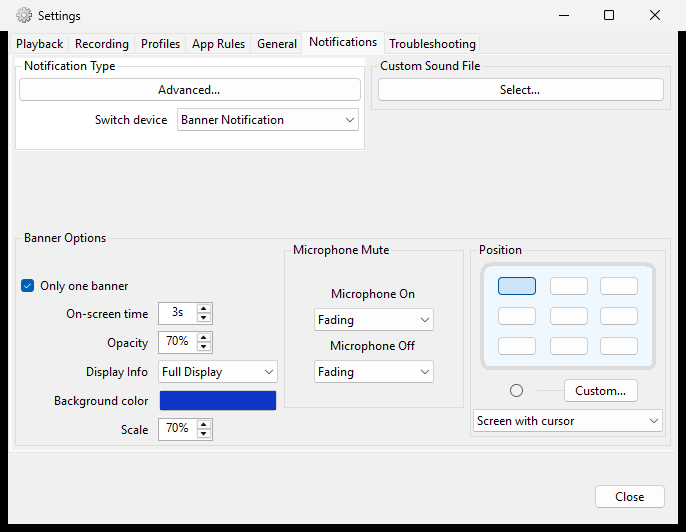
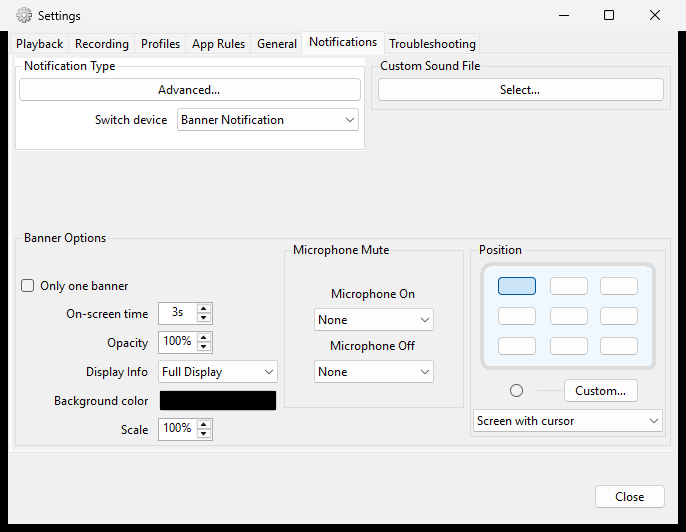
docs(documentation): capture sub-dialogs and refresh screenshots
Add a -Click option to tools/Capture-DocumentationScreenshot.ps1 that invokes
a button on the selected tab and captures the dialog it opens, so sub-dialogs
such as the App Rules "Add Rule" dialog can be produced by automation instead
of a hand-cropped grab. The click posts BM_CLICK to the button handle because
the UI Automation Invoke pattern blocks until a modal dialog closes.

Refresh the affected screenshots: AppRules Add.png is now the clean single
dialog, and Notifications.png shows the documented defaults.

diff --git a/.opencode/skills/documentation-sync/SKILL.md b/.opencode/skills/documentation-sync/SKILL.md
@@ -36,7 +36,7 @@ symlink; change the real file in `img/Documentation/`.
 | `website/src/configuration/recording.md` | `Recording.png` | Recording |
 | `website/src/configuration/notifications.md` | `Notifications.png` | Notifications |
 | `website/src/usage/profiles.md` | `Profile.png`, `Profile Add.png` | Profiles (+ profile editor) |
-| `website/src/usage/app-rules.md` | `AppRules.png`, `AppRules Add.png` | App Sound Lock (+ rule dialog) |
+| `website/src/usage/app-rules.md` | `AppRules.png`, `AppRules Add.png` | App Rules (+ rule dialog, `-Click addAppSoundRuleButton`) |
 | `website/src/advanced/troubleshooting.md` | `Troubleshoot.png` | Troubleshooting |
 | `website/src/faq/**` | `faq/*.png`, `faq/*.gif` | — |
 
@@ -53,6 +53,7 @@ surface, selects the tab, and captures **only the Settings window bounds**:
 # From the repository root. Requires PowerShell 7+.
 pwsh .\tools\Capture-DocumentationScreenshot.ps1 -Name Notifications -Tab Notifications
 pwsh .\tools\Capture-DocumentationScreenshot.ps1 -Name Playback -Tab Playback
+pwsh .\tools\Capture-DocumentationScreenshot.ps1 -Name "AppRules Add" -Tab "App Rules" -Click addAppSoundRuleButton
 pwsh .\tools\Capture-DocumentationScreenshot.ps1 -Name faq/quick-menu-popup
 ```
 
@@ -64,7 +65,8 @@ What the script does, and why:
    with `--disable-updater`.
 3. Opens the Settings window with `SoundSwitch.CLI.exe settings` — the supported
    automation surface — instead of simulating tray clicks.
-4. Selects the tab by name with UI Automation (`System.Windows.Automation`).
+4. Selects the tab by name with UI Automation (`System.Windows.Automation`) and,
+   with `-Click`, invokes a button to open a sub-dialog.
 5. Captures the window with `PrintWindow(PW_RENDERFULLCONTENT)` clipped to
    `GetWindowRect`, so the PNG is cropped to the window (title bar included, no
    desktop background) and matches the existing screenshots.
@@ -80,9 +82,13 @@ Notes and gotchas:
 - The committed screenshots use the **English** UI. If SoundSwitch is set to another
   language, switch it back (General tab) before capturing, and pass tab names in
   the language currently displayed (`-Tab` matches the localized label).
-- For dialogs that are not a settings tab (add-profile, add-rule, colour picker),
-  open them once by hand, then run the script with `-AllowExistingInstance` and no
-  `-Tab` while the dialog is visible, or capture the dialog window directly.
+- Sub-dialogs (add-profile, add-rule, …) are captured with `-Click`: after the tab
+  is selected the script clicks the named button and captures the dialog it opens,
+  e.g. `-Tab "App Rules" -Click addAppSoundRuleButton`. Pass the control name from
+  the designer (`addAppSoundRuleButton`, `addProfileButton`) or its visible label
+  (`Add`) when the label is unambiguous on that tab. Dialogs with no launching
+  button (the colour picker, the file picker) still need `-AllowExistingInstance`
+  and no `-Tab` while the dialog is visible.
 - Use `-ListWindows` to see what the script finds, and `-KeepOpen` to inspect the
   result before the window closes.
 

diff --git a/tools/README.md b/tools/README.md
@@ -9,4 +9,4 @@
 - [`Sign-Binary.ps1`](Sign-Binary.ps1) - PowerShell 7+ script for code signing executables using signtool with SHA-256 digest and RFC 3161 timestamping (no SHA-1). Configurable certificate subject name (defaults to "OpenSource Developer, Antoine Aflalo"). Called automatically by Build-Installer.ps1 when signtool is available.
 - [`Build-Installer.ps1`](Build-Installer.ps1) - PowerShell 7+ script focused on installer compilation and code signing. Takes a `-FinalDir` parameter (defaults to `.\Final`) pointing to a pre-populated directory with binaries, docs, and assets. Signs binaries and the installer using Sign-Binary.ps1, and invokes Inno Setup (ISCC.exe) directly, once per architecture via `-Architectures` (passing `/DTargetArch=x64|arm64`; defaults to both). Does not build from source, generate docs, or interact with GitHub releases — use Publish-Release.ps1 for the full workflow.
 - [`upload_nightly_r2.py`](upload_nightly_r2.py) - Upload nightly build archives to Cloudflare R2 and notify Discord.
-- [`Capture-DocumentationScreenshot.ps1`](Capture-DocumentationScreenshot.ps1) - PowerShell 7+ automation for the documentation screenshots. Builds the app and CLI, launches SoundSwitch, opens Settings through the CLI (`SoundSwitch.CLI.exe settings`), selects a settings tab with UI Automation, and captures the Settings window bounds with `PrintWindow` into `img\Documentation` (published on the website as `/images/`). Use it to refresh the screenshots shown in the docs, e.g. `pwsh tools\Capture-DocumentationScreenshot.ps1 -Name Notifications -Tab Notifications`. See the `documentation-sync` skill for the full workflow.
+- [`Capture-DocumentationScreenshot.ps1`](Capture-DocumentationScreenshot.ps1) - PowerShell 7+ automation for the documentation screenshots. Builds the app and CLI, launches SoundSwitch, opens Settings through the CLI (`SoundSwitch.CLI.exe settings`), selects a settings tab with UI Automation, and captures the Settings window bounds with `PrintWindow` into `img\Documentation` (published on the website as `/images/`). Pass `-Click <control>` to click a button on the tab and capture the sub-dialog it opens, e.g. `-Tab "App Rules" -Click addAppSoundRuleButton` captures the "Add Rule" dialog. Use it to refresh the screenshots shown in the docs, e.g. `pwsh tools\Capture-DocumentationScreenshot.ps1 -Name Notifications -Tab Notifications`. See the `documentation-sync` skill for the full workflow.
